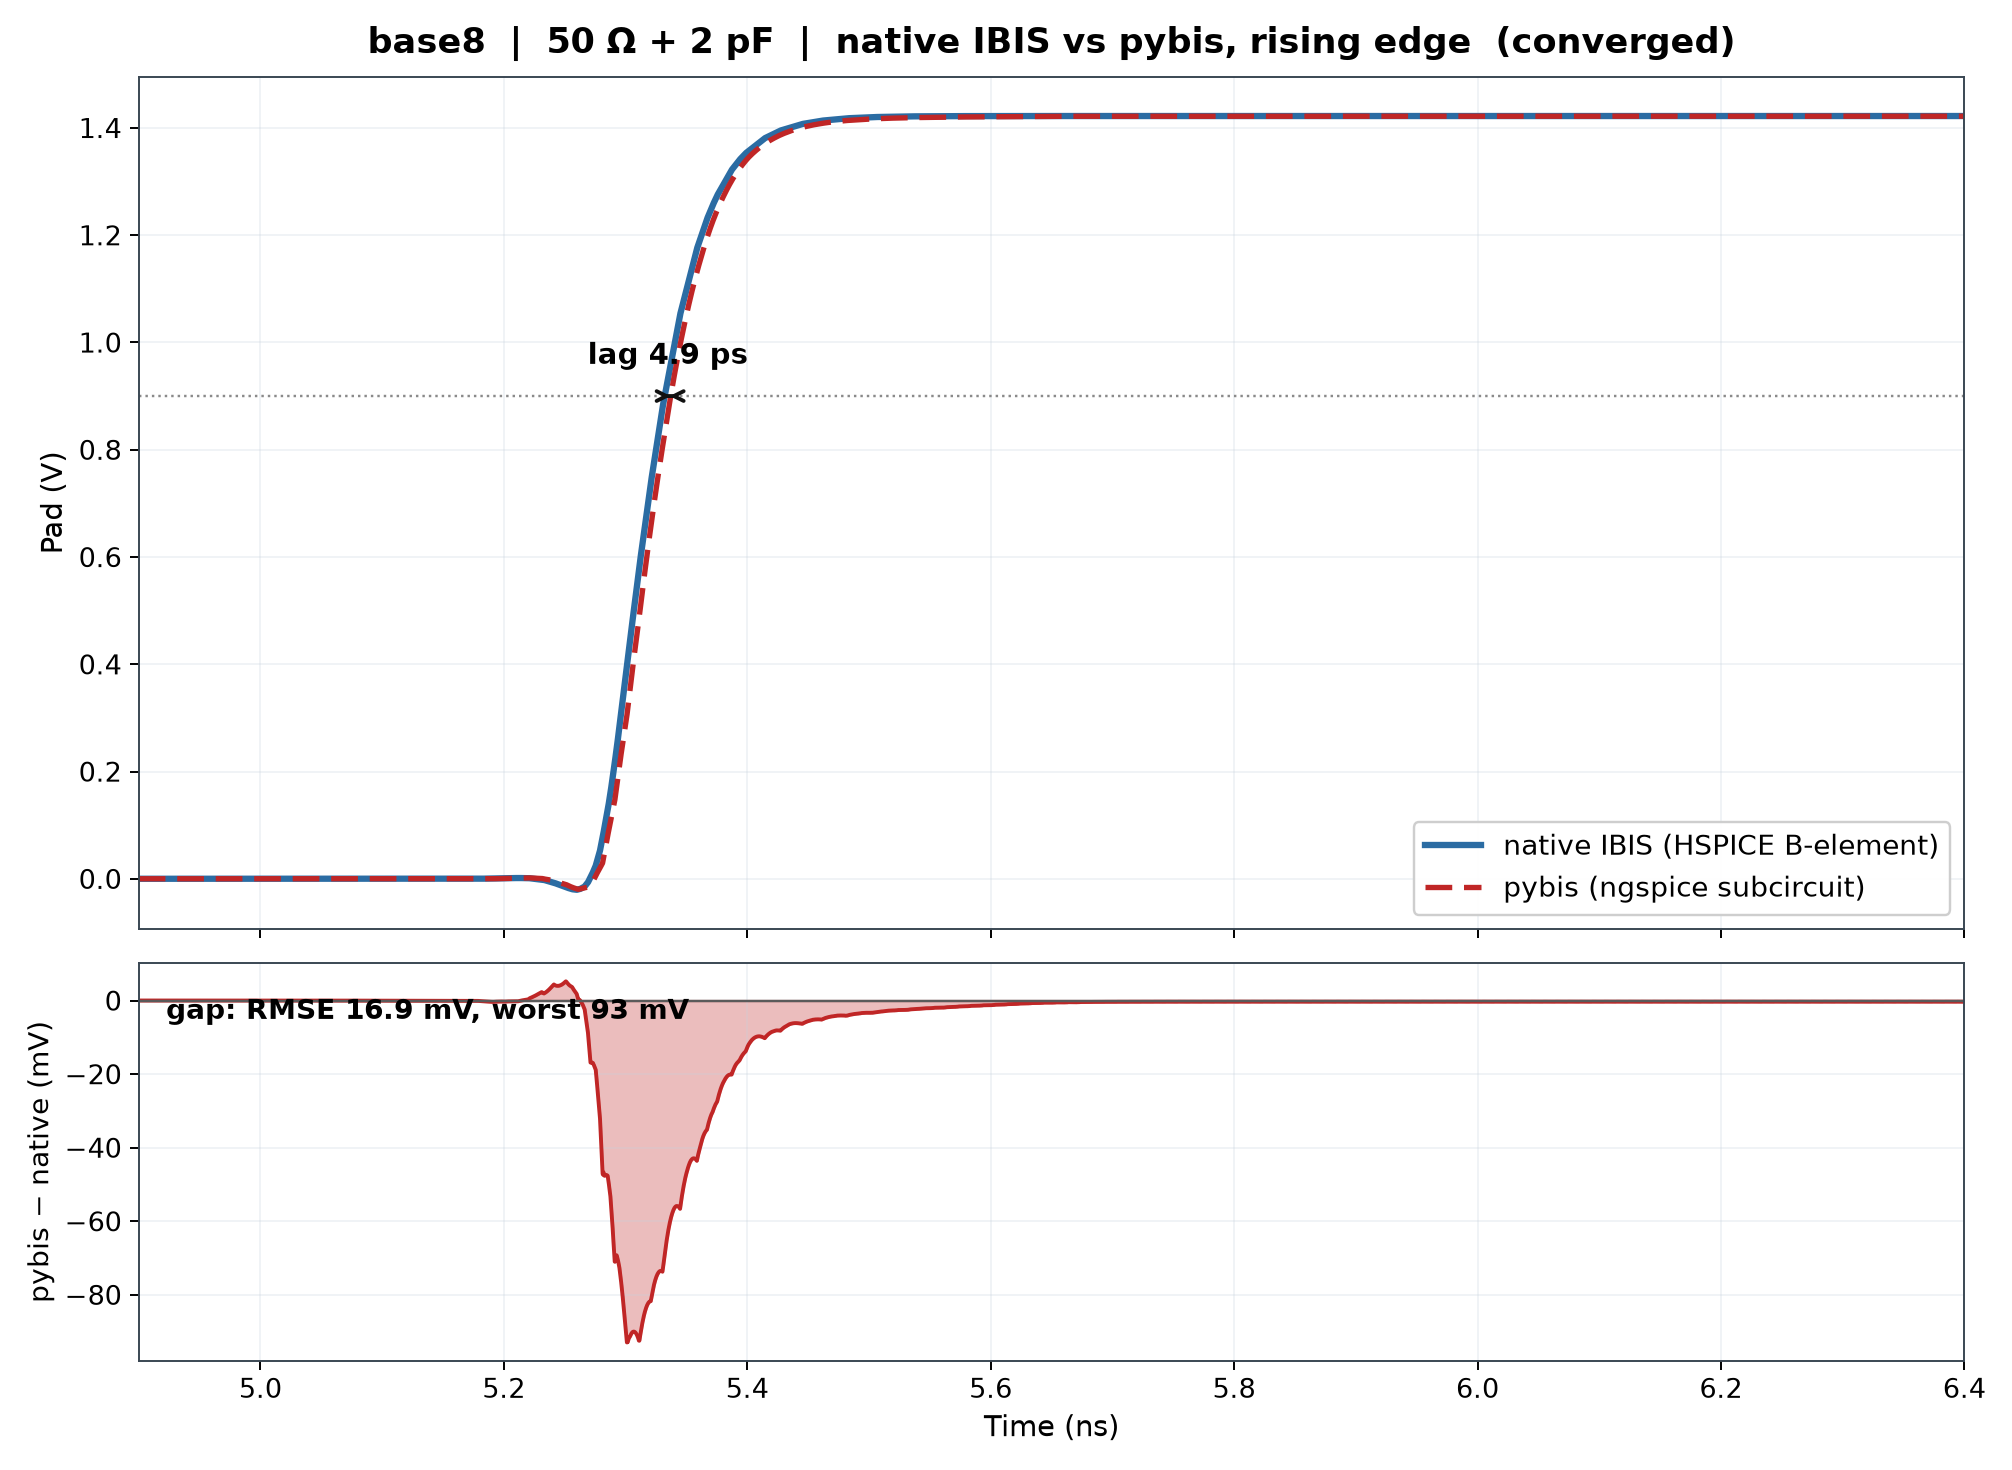
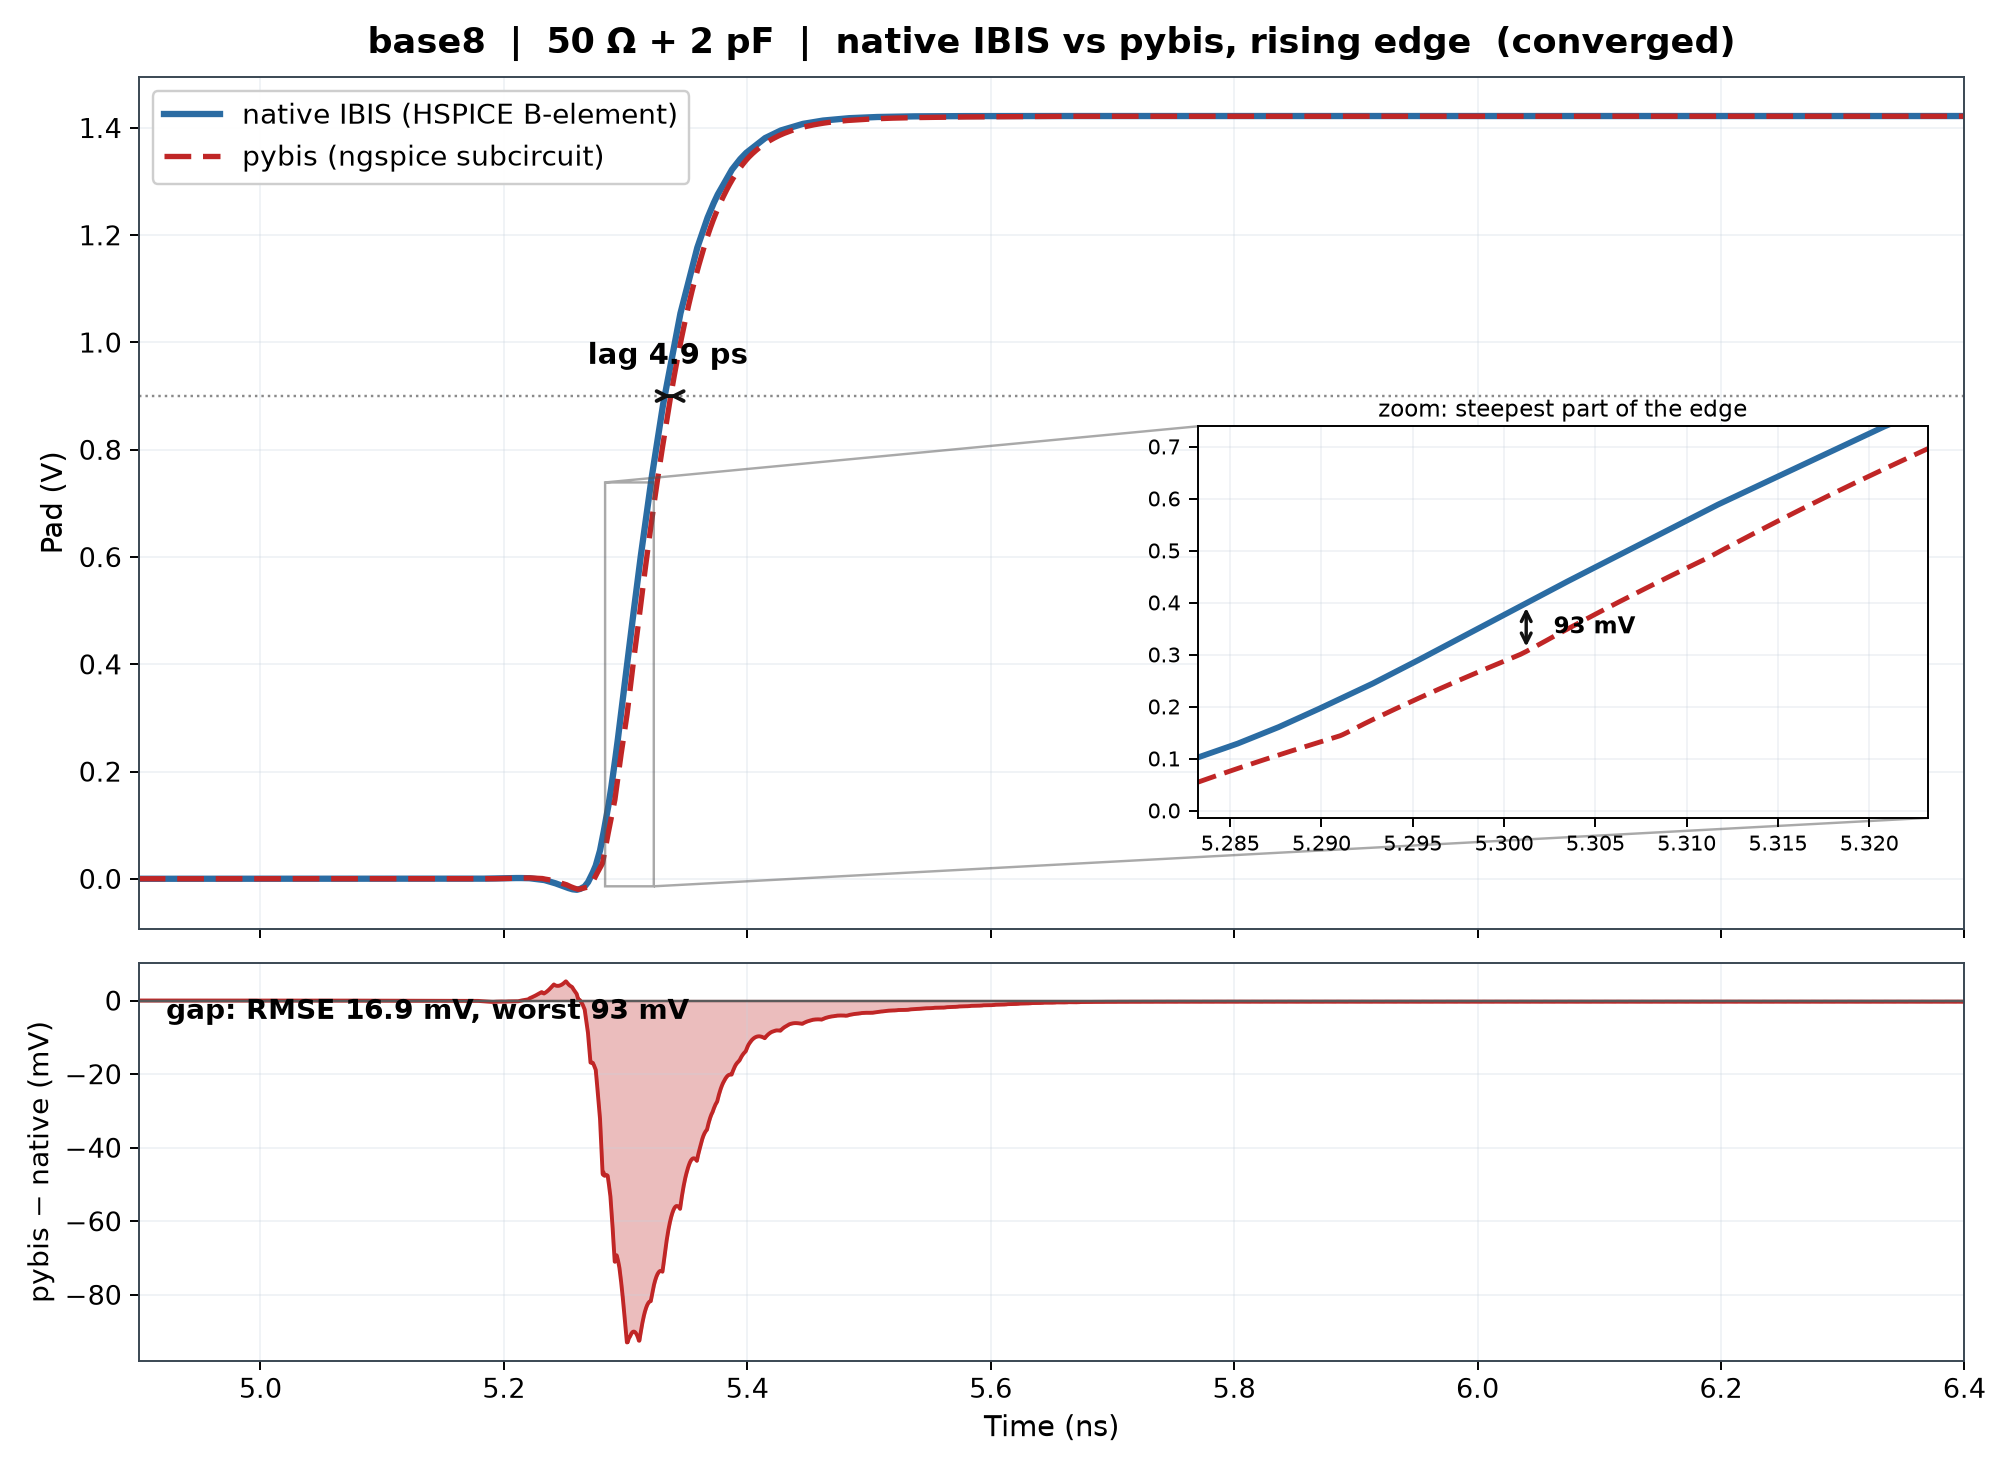
Add a zoom inset: make the 93 mV visible on the waveforms
At full scale the two pads sit 4.9 ps apart on a 1500 ps axis -- 0.33% of the
panel width, sub-pixel -- so the 93 mV the difference panel reports is invisible
up top. The inset opens the steepest part of the edge, centred on the
maximum-difference point (5.3012 ns), where the separation is plain.

The 93 mV is not a separate amplitude error: it is the lag read vertically on a
steep edge. 4.9 ps x the native slew of 18.46 mV/ps predicts 90 mV against 93 mV
measured -- within 3%.

diff --git a/scripts/plot_native_vs_pybis_lag_gap.py b/scripts/plot_native_vs_pybis_lag_gap.py
@@ -119,10 +119,31 @@ def main():
                  arrowprops=dict(arrowstyle="<->", color="#111", lw=1.6))
     ax0.text((cn + cp) / 2, half + 0.06, f"lag {lag:.1f} ps", ha="center",
              fontsize=12, fontweight="bold")
+    # Zoom inset: at full scale the curves sit 4.9 ps apart on a 1500 ps axis
+    # (0.33% of the width), so the separation the bottom panel reports as 93 mV
+    # is invisible. The inset opens the steepest part of the edge, where that
+    # 93 mV is simply the lag times the 18.5 mV/ps slew.
+    axz = ax0.inset_axes([0.58, 0.13, 0.40, 0.46])
+    axz.plot(grid, b, color=NATIVE, lw=2.4)
+    axz.plot(grid, a, color=PYBIS, lw=2.0, ls=(0, (4, 1.8)))
+    imx = int(np.argmax(np.abs(a - b)))
+    axz.set_xlim(grid[imx] - 0.018, grid[imx] + 0.022)
+    lo = min(a[imx], b[imx]); hi = max(a[imx], b[imx])
+    axz.set_ylim(lo - 0.32, hi + 0.34)
+    axz.grid(alpha=0.30, color="#C9D3DE", lw=0.7)
+    axz.tick_params(labelsize=8.5)
+    axz.set_title("zoom: steepest part of the edge", fontsize=9.5, pad=4)
+    imax = imx
+    axz.annotate("", xy=(grid[imax], a[imax]), xytext=(grid[imax], b[imax]),
+                 arrowprops=dict(arrowstyle="<->", color="#111", lw=1.4))
+    axz.text(grid[imax] + 0.0015, (a[imax] + b[imax]) / 2, "93 mV",
+             fontsize=9.5, fontweight="bold", va="center")
+    ax0.indicate_inset_zoom(axz, edgecolor="#555")
+
     ax0.set_ylabel("Pad (V)", fontsize=12)
     ax0.set_title("base8  |  50 Ω + 2 pF  |  native IBIS vs pybis, rising edge  (converged)",
                   fontsize=14.5, fontweight="bold", pad=10)
-    ax0.legend(fontsize=11.5, loc="lower right", framealpha=0.95)
+    ax0.legend(fontsize=11.5, loc="upper left", framealpha=0.95)
 
     ax1.fill_between(grid, 0, (a - b) * 1e3, color=PYBIS, alpha=0.30)
     ax1.plot(grid, (a - b) * 1e3, color=PYBIS, lw=1.6)
